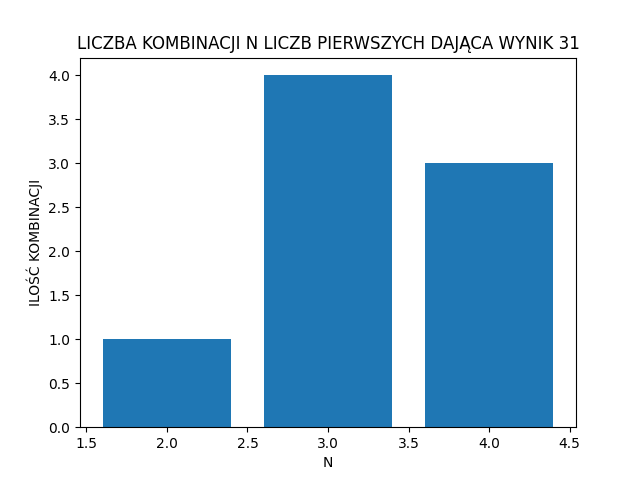
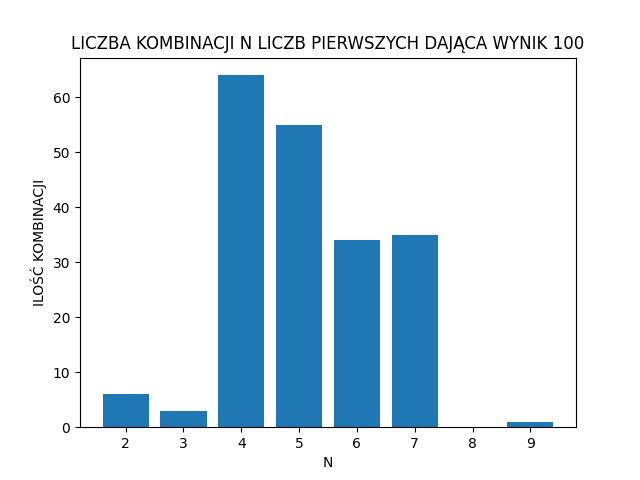
Added data displaying in seperated div

diff --git a/Raport/raport.html b/Raport/raport.html
@@ -1,107 +1,1 @@
-<html lang="pl">
-  <head>
-    <meta charset="utf-8" />
-    <title>Raport z dnia 30/12/2022 20:07:11</title>
-    <link rel="stylesheet" href="style.css" />
-  </head>
-  <body>
-    <div class="container">
-      <div class="child">
-        <div class="raport"><img src="plot.png" , alt="graph" /></div>
-      </div>
-      <div class="child">
-        <div class="raport"><h1>Raport z dnia 30/12/2022 20:07:11</h1></div>
-        <div class="data">Dane wejsciowe</div>
-      </div>
-    </div>
-    <h2>Sumy 2 liczb dająca wynik 40</h2>
-    <table>
-      <tbody>
-        <tr>
-          <td style="text-align: right">3</td>
-          <td style="text-align: right">37</td>
-        </tr>
-        <tr>
-          <td style="text-align: right">11</td>
-          <td style="text-align: right">29</td>
-        </tr>
-        <tr>
-          <td style="text-align: right">17</td>
-          <td style="text-align: right">23</td>
-        </tr>
-      </tbody>
-    </table>
-    <h2>Sumy 3 liczb dająca wynik 40</h2>
-    <table>
-      <tbody>
-        <tr>
-          <td style="text-align: right">2</td>
-          <td style="text-align: right">7</td>
-          <td style="text-align: right">31</td>
-        </tr>
-      </tbody>
-    </table>
-    <h2>Sumy 4 liczb dająca wynik 40</h2>
-    <table>
-      <tbody>
-        <tr>
-          <td style="text-align: right">3</td>
-          <td style="text-align: right">5</td>
-          <td style="text-align: right">13</td>
-          <td style="text-align: right">19</td>
-        </tr>
-        <tr>
-          <td style="text-align: right">3</td>
-          <td style="text-align: right">7</td>
-          <td style="text-align: right">11</td>
-          <td style="text-align: right">19</td>
-        </tr>
-        <tr>
-          <td style="text-align: right">3</td>
-          <td style="text-align: right">7</td>
-          <td style="text-align: right">13</td>
-          <td style="text-align: right">17</td>
-        </tr>
-        <tr>
-          <td style="text-align: right">5</td>
-          <td style="text-align: right">7</td>
-          <td style="text-align: right">11</td>
-          <td style="text-align: right">17</td>
-        </tr>
-      </tbody>
-    </table>
-    <h2>Sumy 5 liczb dająca wynik 40</h2>
-    <table>
-      <tbody>
-        <tr>
-          <td style="text-align: right">2</td>
-          <td style="text-align: right">3</td>
-          <td style="text-align: right">5</td>
-          <td style="text-align: right">7</td>
-          <td style="text-align: right">23</td>
-        </tr>
-        <tr>
-          <td style="text-align: right">2</td>
-          <td style="text-align: right">3</td>
-          <td style="text-align: right">5</td>
-          <td style="text-align: right">11</td>
-          <td style="text-align: right">19</td>
-        </tr>
-        <tr>
-          <td style="text-align: right">2</td>
-          <td style="text-align: right">3</td>
-          <td style="text-align: right">5</td>
-          <td style="text-align: right">13</td>
-          <td style="text-align: right">17</td>
-        </tr>
-        <tr>
-          <td style="text-align: right">2</td>
-          <td style="text-align: right">3</td>
-          <td style="text-align: right">7</td>
-          <td style="text-align: right">11</td>
-          <td style="text-align: right">17</td>
-        </tr>
-      </tbody>
-    </table>
-  </body>
-</html>
+<html lang="pl"><head><meta charset="utf-8"><title>Raport z dnia 30/12/2022 21:54:20</title><link rel="stylesheet" href="style.css"></head><body><div class = "container"><div class = "child"><div class = "raport"><img src ="plot.png", alt="graph"></div></div><div class = "child"><div class = "raport"><h1>Raport z dnia 30/12/2022 21:54:20</h1></div><div class = "data"><h2>Wartość wejsciowa: 100</h2><h2>Rozpatrywane liczby pierwsze: </h2><h2>[2, 3, 5, 7, 11, 13, 17, 19, 23, 29, 31, 37, 41, 43, 47, 53, 59, 61, 67, 71, 73, 79, 83, 89, 97]</h2><h2>Ilość kombinacji dająca wynik 100 to: 198</h2></div></div></div><div class = "container"><div class = "table"><div class = "smth">Suma 2 liczb dająca wartość 100</div><div class = "smth">[3, 97]</div><div class = "smth">[11, 89]</div><div class = "smth">[17, 83]</div><div class = "smth">[29, 71]</div><div class = "smth">[41, 59]</div><div class = "smth">[47, 53]</div></div><div class = "table"><div class = "smth">Suma 3 liczb dająca wartość 100</div><div class = "smth">[2, 19, 79]</div><div class = "smth">[2, 31, 67]</div><div class = "smth">[2, 37, 61]</div></div><div class = "table"><div class = "smth">Suma 4 liczb dająca wartość 100</div><div class = "smth">[3, 5, 13, 79]</div><div class = "smth">[3, 5, 19, 73]</div><div class = "smth">[3, 5, 31, 61]</div><div class = "smth">[3, 7, 11, 79]</div><div class = "smth">[3, 7, 17, 73]</div><div class = "smth">[3, 7, 19, 71]</div><div class = "smth">[3, 7, 23, 67]</div><div class = "smth">[3, 7, 29, 61]</div><div class = "smth">[3, 7, 31, 59]</div><div class = "smth">[3, 7, 37, 53]</div><div class = "smth">[3, 7, 43, 47]</div><div class = "smth">[3, 11, 13, 73]</div><div class = "smth">[3, 11, 19, 67]</div><div class = "smth">[3, 13, 17, 67]</div><div class = "smth">[3, 13, 23, 61]</div><div class = "smth">[3, 13, 31, 53]</div><div class = "smth">[3, 13, 37, 47]</div><div class = "smth">[3, 13, 41, 43]</div><div class = "smth">[3, 17, 19, 61]</div><div class = "smth">[3, 17, 37, 43]</div><div class = "smth">[3, 19, 31, 47]</div><div class = "smth">[3, 19, 37, 41]</div><div class = "smth">[3, 23, 31, 43]</div><div class = "smth">[3, 29, 31, 37]</div><div class = "smth">[5, 7, 17, 71]</div><div class = "smth">[5, 7, 29, 59]</div><div class = "smth">[5, 7, 41, 47]</div><div class = "smth">[5, 11, 13, 71]</div><div class = "smth">[5, 11, 17, 67]</div><div class = "smth">[5, 11, 23, 61]</div><div class = "smth">[5, 11, 31, 53]</div><div class = "smth">[5, 11, 37, 47]</div><div class = "smth">[5, 11, 41, 43]</div><div class = "smth">[5, 13, 23, 59]</div><div class = "smth">[5, 13, 29, 53]</div><div class = "smth">[5, 17, 19, 59]</div><div class = "smth">[5, 17, 31, 47]</div><div class = "smth">[5, 17, 37, 41]</div><div class = "smth">[5, 19, 23, 53]</div><div class = "smth">[5, 19, 29, 47]</div><div class = "smth">[5, 23, 29, 43]</div><div class = "smth">[5, 23, 31, 41]</div><div class = "smth">[7, 11, 23, 59]</div><div class = "smth">[7, 11, 29, 53]</div><div class = "smth">[7, 13, 19, 61]</div><div class = "smth">[7, 13, 37, 43]</div><div class = "smth">[7, 17, 23, 53]</div><div class = "smth">[7, 17, 29, 47]</div><div class = "smth">[7, 19, 31, 43]</div><div class = "smth">[7, 23, 29, 41]</div><div class = "smth">[11, 13, 17, 59]</div><div class = "smth">[11, 13, 23, 53]</div><div class = "smth">[11, 13, 29, 47]</div><div class = "smth">[11, 17, 19, 53]</div><div class = "smth">[11, 17, 29, 43]</div><div class = "smth">[11, 17, 31, 41]</div><div class = "smth">[11, 19, 23, 47]</div><div class = "smth">[11, 19, 29, 41]</div><div class = "smth">[11, 23, 29, 37]</div><div class = "smth">[13, 17, 23, 47]</div><div class = "smth">[13, 17, 29, 41]</div><div class = "smth">[13, 19, 31, 37]</div><div class = "smth">[17, 19, 23, 41]</div><div class = "smth">[17, 23, 29, 31]</div></div><div class = "table"><div class = "smth">Suma 5 liczb dająca wartość 100</div><div class = "smth">[2, 3, 5, 7, 83]</div><div class = "smth">[2, 3, 5, 11, 79]</div><div class = "smth">[2, 3, 5, 17, 73]</div><div class = "smth">[2, 3, 5, 19, 71]</div><div class = "smth">[2, 3, 5, 23, 67]</div><div class = "smth">[2, 3, 5, 29, 61]</div><div class = "smth">[2, 3, 5, 31, 59]</div><div class = "smth">[2, 3, 5, 37, 53]</div><div class = "smth">[2, 3, 5, 43, 47]</div><div class = "smth">[2, 3, 7, 17, 71]</div><div class = "smth">[2, 3, 7, 29, 59]</div><div class = "smth">[2, 3, 7, 41, 47]</div><div class = "smth">[2, 3, 11, 13, 71]</div><div class = "smth">[2, 3, 11, 17, 67]</div><div class = "smth">[2, 3, 11, 23, 61]</div><div class = "smth">[2, 3, 11, 31, 53]</div><div class = "smth">[2, 3, 11, 37, 47]</div><div class = "smth">[2, 3, 11, 41, 43]</div><div class = "smth">[2, 3, 13, 23, 59]</div><div class = "smth">[2, 3, 13, 29, 53]</div><div class = "smth">[2, 3, 17, 19, 59]</div><div class = "smth">[2, 3, 17, 31, 47]</div><div class = "smth">[2, 3, 17, 37, 41]</div><div class = "smth">[2, 3, 19, 23, 53]</div><div class = "smth">[2, 3, 19, 29, 47]</div><div class = "smth">[2, 3, 23, 29, 43]</div><div class = "smth">[2, 3, 23, 31, 41]</div><div class = "smth">[2, 5, 7, 13, 73]</div><div class = "smth">[2, 5, 7, 19, 67]</div><div class = "smth">[2, 5, 11, 23, 59]</div><div class = "smth">[2, 5, 11, 29, 53]</div><div class = "smth">[2, 5, 13, 19, 61]</div><div class = "smth">[2, 5, 13, 37, 43]</div><div class = "smth">[2, 5, 17, 23, 53]</div><div class = "smth">[2, 5, 17, 29, 47]</div><div class = "smth">[2, 5, 19, 31, 43]</div><div class = "smth">[2, 5, 23, 29, 41]</div><div class = "smth">[2, 7, 11, 13, 67]</div><div class = "smth">[2, 7, 11, 19, 61]</div><div class = "smth">[2, 7, 11, 37, 43]</div><div class = "smth">[2, 7, 13, 17, 61]</div><div class = "smth">[2, 7, 13, 19, 59]</div><div class = "smth">[2, 7, 13, 31, 47]</div><div class = "smth">[2, 7, 13, 37, 41]</div><div class = "smth">[2, 7, 17, 31, 43]</div><div class = "smth">[2, 7, 19, 29, 43]</div><div class = "smth">[2, 7, 19, 31, 41]</div><div class = "smth">[2, 7, 23, 31, 37]</div><div class = "smth">[2, 11, 13, 31, 43]</div><div class = "smth">[2, 11, 17, 23, 47]</div><div class = "smth">[2, 11, 17, 29, 41]</div><div class = "smth">[2, 11, 19, 31, 37]</div><div class = "smth">[2, 13, 17, 31, 37]</div><div class = "smth">[2, 13, 19, 23, 43]</div><div class = "smth">[2, 13, 19, 29, 37]</div></div><div class = "table"><div class = "smth">Suma 6 liczb dająca wartość 100</div><div class = "smth">[3, 5, 7, 11, 13, 61]</div><div class = "smth">[3, 5, 7, 11, 31, 43]</div><div class = "smth">[3, 5, 7, 13, 19, 53]</div><div class = "smth">[3, 5, 7, 13, 29, 43]</div><div class = "smth">[3, 5, 7, 13, 31, 41]</div><div class = "smth">[3, 5, 7, 17, 31, 37]</div><div class = "smth">[3, 5, 7, 19, 23, 43]</div><div class = "smth">[3, 5, 7, 19, 29, 37]</div><div class = "smth">[3, 5, 11, 13, 31, 37]</div><div class = "smth">[3, 5, 11, 17, 23, 41]</div><div class = "smth">[3, 5, 13, 17, 19, 43]</div><div class = "smth">[3, 5, 13, 19, 23, 37]</div><div class = "smth">[3, 5, 13, 19, 29, 31]</div><div class = "smth">[3, 7, 11, 13, 19, 47]</div><div class = "smth">[3, 7, 11, 13, 23, 43]</div><div class = "smth">[3, 7, 11, 13, 29, 37]</div><div class = "smth">[3, 7, 11, 17, 19, 43]</div><div class = "smth">[3, 7, 11, 19, 23, 37]</div><div class = "smth">[3, 7, 11, 19, 29, 31]</div><div class = "smth">[3, 7, 13, 17, 19, 41]</div><div class = "smth">[3, 7, 13, 17, 23, 37]</div><div class = "smth">[3, 7, 13, 17, 29, 31]</div><div class = "smth">[3, 7, 17, 19, 23, 31]</div><div class = "smth">[3, 11, 13, 17, 19, 37]</div><div class = "smth">[3, 11, 13, 19, 23, 31]</div><div class = "smth">[5, 7, 11, 13, 17, 47]</div><div class = "smth">[5, 7, 11, 13, 23, 41]</div><div class = "smth">[5, 7, 11, 17, 19, 41]</div><div class = "smth">[5, 7, 11, 17, 23, 37]</div><div class = "smth">[5, 7, 11, 17, 29, 31]</div><div class = "smth">[5, 7, 17, 19, 23, 29]</div><div class = "smth">[5, 11, 13, 17, 23, 31]</div><div class = "smth">[5, 11, 13, 19, 23, 29]</div><div class = "smth">[7, 11, 13, 17, 23, 29]</div></div><div class = "table"><div class = "smth">Suma 7 liczb dająca wartość 100</div><div class = "smth">[2, 3, 5, 7, 11, 13, 59]</div><div class = "smth">[2, 3, 5, 7, 11, 19, 53]</div><div class = "smth">[2, 3, 5, 7, 11, 29, 43]</div><div class = "smth">[2, 3, 5, 7, 11, 31, 41]</div><div class = "smth">[2, 3, 5, 7, 13, 17, 53]</div><div class = "smth">[2, 3, 5, 7, 13, 23, 47]</div><div class = "smth">[2, 3, 5, 7, 13, 29, 41]</div><div class = "smth">[2, 3, 5, 7, 17, 19, 47]</div><div class = "smth">[2, 3, 5, 7, 17, 23, 43]</div><div class = "smth">[2, 3, 5, 7, 17, 29, 37]</div><div class = "smth">[2, 3, 5, 7, 19, 23, 41]</div><div class = "smth">[2, 3, 5, 7, 23, 29, 31]</div><div class = "smth">[2, 3, 5, 11, 13, 19, 47]</div><div class = "smth">[2, 3, 5, 11, 13, 23, 43]</div><div class = "smth">[2, 3, 5, 11, 13, 29, 37]</div><div class = "smth">[2, 3, 5, 11, 17, 19, 43]</div><div class = "smth">[2, 3, 5, 11, 19, 23, 37]</div><div class = "smth">[2, 3, 5, 11, 19, 29, 31]</div><div class = "smth">[2, 3, 5, 13, 17, 19, 41]</div><div class = "smth">[2, 3, 5, 13, 17, 23, 37]</div><div class = "smth">[2, 3, 5, 13, 17, 29, 31]</div><div class = "smth">[2, 3, 5, 17, 19, 23, 31]</div><div class = "smth">[2, 3, 7, 11, 13, 17, 47]</div><div class = "smth">[2, 3, 7, 11, 13, 23, 41]</div><div class = "smth">[2, 3, 7, 11, 17, 19, 41]</div><div class = "smth">[2, 3, 7, 11, 17, 23, 37]</div><div class = "smth">[2, 3, 7, 11, 17, 29, 31]</div><div class = "smth">[2, 3, 7, 17, 19, 23, 29]</div><div class = "smth">[2, 3, 11, 13, 17, 23, 31]</div><div class = "smth">[2, 3, 11, 13, 19, 23, 29]</div><div class = "smth">[2, 5, 7, 11, 13, 19, 43]</div><div class = "smth">[2, 5, 7, 13, 17, 19, 37]</div><div class = "smth">[2, 5, 7, 13, 19, 23, 31]</div><div class = "smth">[2, 5, 11, 13, 17, 23, 29]</div><div class = "smth">[2, 7, 11, 13, 17, 19, 31]</div></div><div class = "table"><div class = "smth">Suma 8 liczb dająca wartość 100</div></div><div class = "table"><div class = "smth">Suma 9 liczb dająca wartość 100</div><div class = "smth">[2, 3, 5, 7, 11, 13, 17, 19, 23]</div></div></div></body></html>

diff --git a/Raport/style.css b/Raport/style.css
@@ -30,3 +30,14 @@ tbody{
     background-color: #8E2828;
     height: 100%;
 }
+
+.table{
+    width: 100%;
+}
+
+.smth{
+    text-align: center;
+    margin: 10px;
+    padding: 10px;
+    background-color: #8E2828;
+}

diff --git a/Scripts/raport.py b/Scripts/raport.py
@@ -25,13 +25,14 @@ html += (f"<h2>Ilość kombinacji dająca wynik {algorithm.n} to: {algorithm.cou
 html += "</div></div>"
 
 html +="</div>"
+html +="<div class = \"container\">"
 for idx, val in enumerate(algorithm.table):
-    if(len(val) != 0):
-        html +=(f"<h2>Sumy {str(idx+2)} liczb dająca wynik {str(algorithm.n)}</h2>")
-        html +=(tabulate(val, tablefmt='html'))
-    else:
-        html +=(f"<h2>Sumy {str(idx+2)} liczb dająca wynik {str(algorithm.n)}</h2><br>")
-        html +=(f"Brak sumy {str(idx+2)} liczb spełniających warunek<br>")
+    html+= (f"<div class = \"table\">")
+    html+=(f"<div class = \"smth\">Suma {idx+2} liczb dająca wartość {algorithm.n}</div>")
+    for i in val:
+        html+=(f"<div class = \"smth\">{i}</div>")
+    html += "</div>"
+html += "</div>"
 
 html+=("</body></html>")
 file.write(html)
